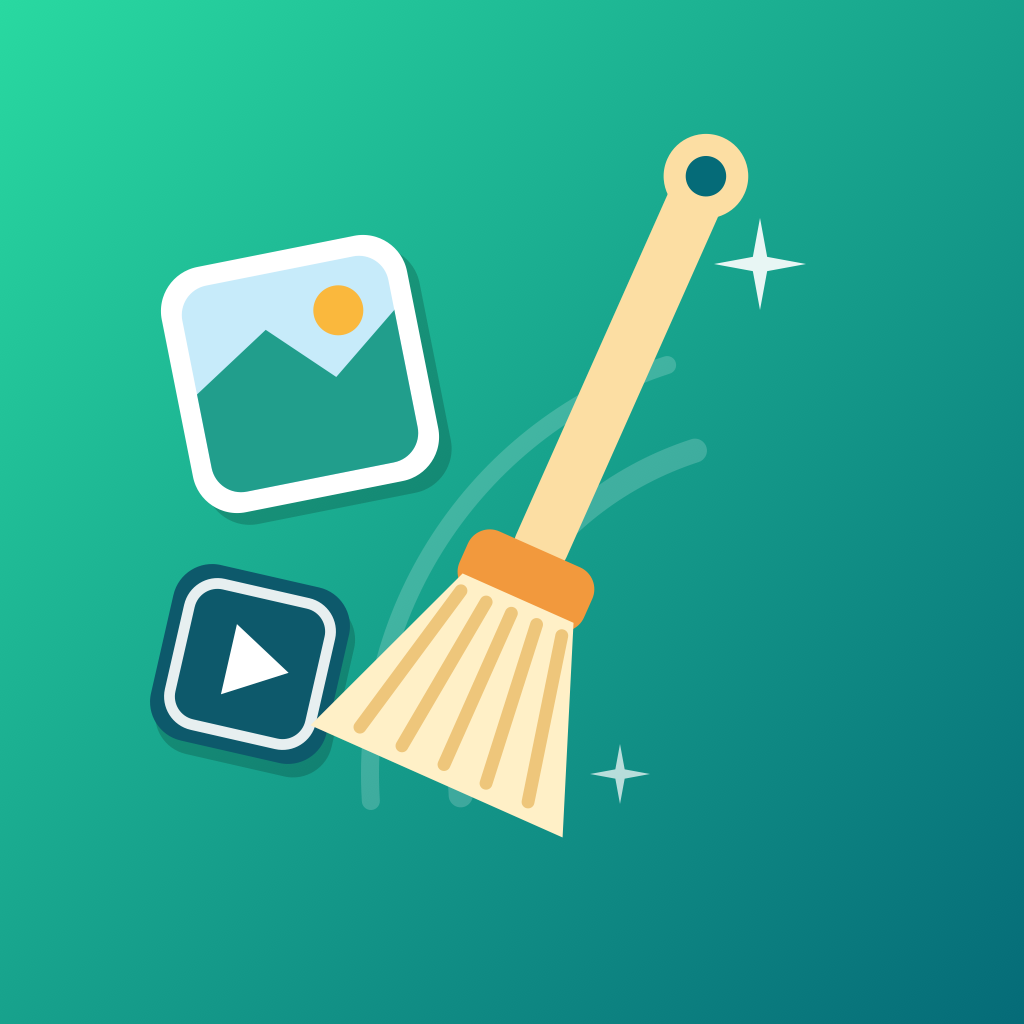
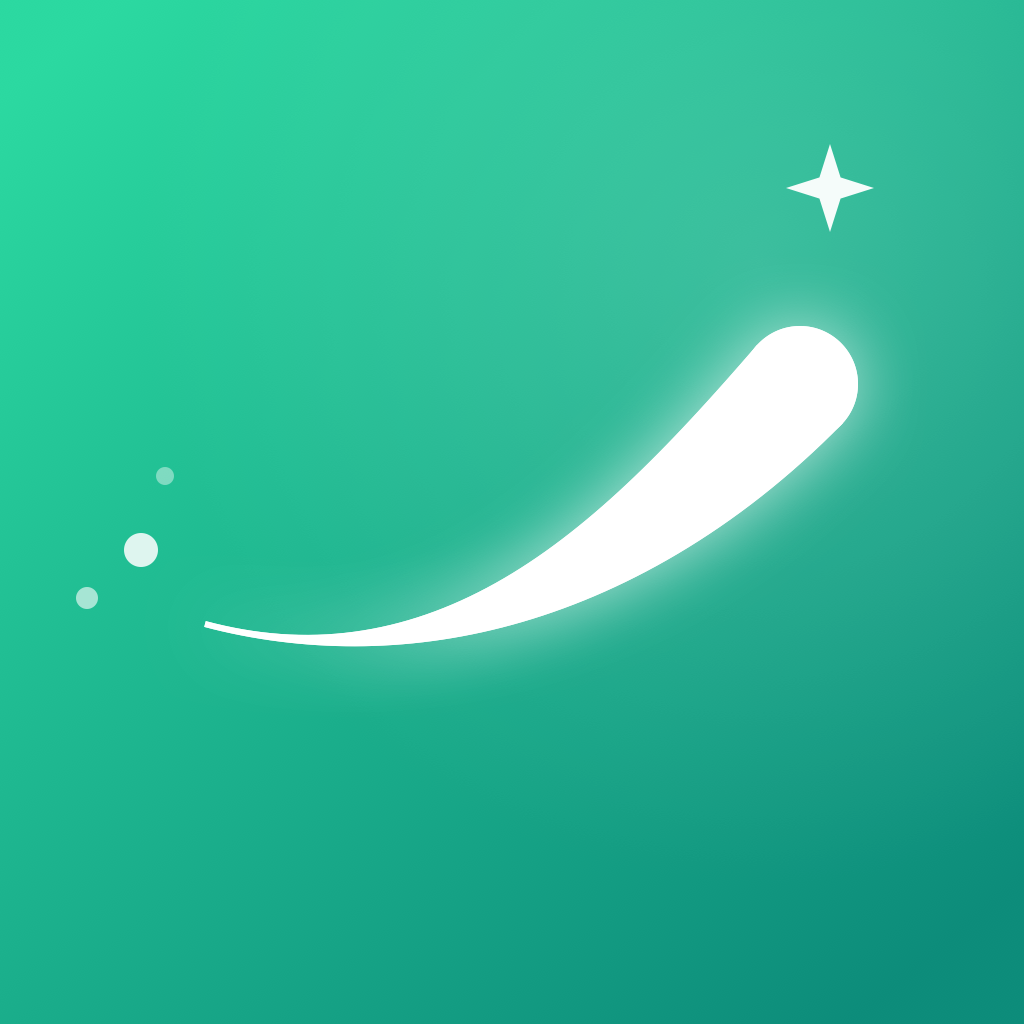
아이콘 v4(빛의 스윕) 적용 + 광고 푸티지 웹 통합
- icon.png 교체: 빗자루 오브젝트 → 미니멀 스윕 마크(민트→틸 그라디언트 유지),
  파비콘·나브 로고·OG 이미지 동일 에셋으로 통일
- 스테이트먼트 밴드 영상 교체: 잔잔한 타일 → 광고 페이오프 와이드 크롭
  (사진이 민트 빛에 입자로 분해되는 장면, 밴드 카피와 정합)
- 미리 해보기 섹션: 광고 훅 클립을 폰 프레임으로 추가(.demo-duo 2열,
  모바일 스택) — "또, 저장 공간 부족" 시나리오가 데모 직전 공감 유도
- assets/video/moment.mp4(235KB)+poster, sweep.mp4 교체(366KB)

diff --git a/index.html b/index.html
@@ -227,11 +227,35 @@
   .feature .free { display: inline-block; margin-top: 10px; font-size: 12px; font-weight: 800; color: var(--teal); background: rgba(18,163,138,.1); padding: 4px 11px; border-radius: 999px; }
 
   /* ---------- DEMO ---------- */
+  .demo-duo {
+    display: grid; grid-template-columns: 320px 400px; gap: 44px;
+    justify-content: center; align-items: center; margin-top: 52px;
+  }
+  @media (max-width: 820px) { .demo-duo { grid-template-columns: minmax(0, 400px); } }
+  .moment {
+    text-align: center;
+  }
+  .moment .frame {
+    width: 250px; margin: 0 auto; border-radius: 34px; overflow: hidden;
+    border: 1px solid var(--line); box-shadow: var(--shadow-float);
+    background: var(--night); aspect-ratio: 9 / 16; position: relative;
+  }
+  .moment video { width: 100%; height: 100%; object-fit: cover; display: block; }
+  .moment .frame::after {
+    content: ""; position: absolute; left: 0; right: 0; bottom: 0; height: 34%;
+    background: linear-gradient(180deg, transparent, rgba(4,35,31,.66));
+  }
+  .moment .quote {
+    position: absolute; left: 0; right: 0; bottom: 18px; z-index: 1;
+    color: #fff; font-weight: 800; font-size: 16.5px; text-shadow: 0 2px 12px rgba(2,20,17,.6);
+  }
+  .moment .hint { margin-top: 14px; font-size: 13.5px; color: var(--sub); font-weight: 600; }
   .demo-box {
-    max-width: 400px; margin: 52px auto 0; background: var(--card);
+    max-width: 400px; margin: 0; background: var(--card);
     border: 1px solid var(--line); border-radius: var(--r-lg); padding: 30px; text-align: center;
     box-shadow: var(--shadow-float);
   }
+  @media (max-width: 820px) { .demo-box { margin: 0 auto; } }
   .demo-stage { position: relative; height: 258px; margin-top: 8px; }
   .demo-card {
     position: absolute; inset: 0; margin: auto; width: 178px; height: 232px;
@@ -475,6 +499,16 @@
       <h2>손끝으로 먼저 느껴보세요</h2>
       <p>왼쪽은 휴지통, 오른쪽은 유지. 30초면 감이 와요.</p>
     </div>
+    <div class="demo-duo">
+    <div class="moment reveal from-left">
+      <div class="frame">
+        <video data-band muted loop playsinline preload="none" poster="assets/video/moment.jpg" aria-hidden="true">
+          <source src="assets/video/moment.mp4" type="video/mp4">
+        </video>
+        <div class="quote">또, 저장 공간 부족…</div>
+      </div>
+      <p class="hint">익숙한 순간이라면, 지금이 쓱싹할 때예요.</p>
+    </div>
     <div class="demo-box reveal">
       <div class="demo-play">
         <div class="demo-stage" id="demoStage"></div>
@@ -490,6 +524,7 @@
         <p>실제 앱에선 이제 쓰레받기에서 한 번 더 확인한 뒤 비워요.<br>지운 사진은 30일간 되돌릴 수 있고요.</p>
         <button class="demo-reset" onclick="demoReset()">다시 해보기</button>
       </div>
+    </div>
     </div>
   </div>
 </section>